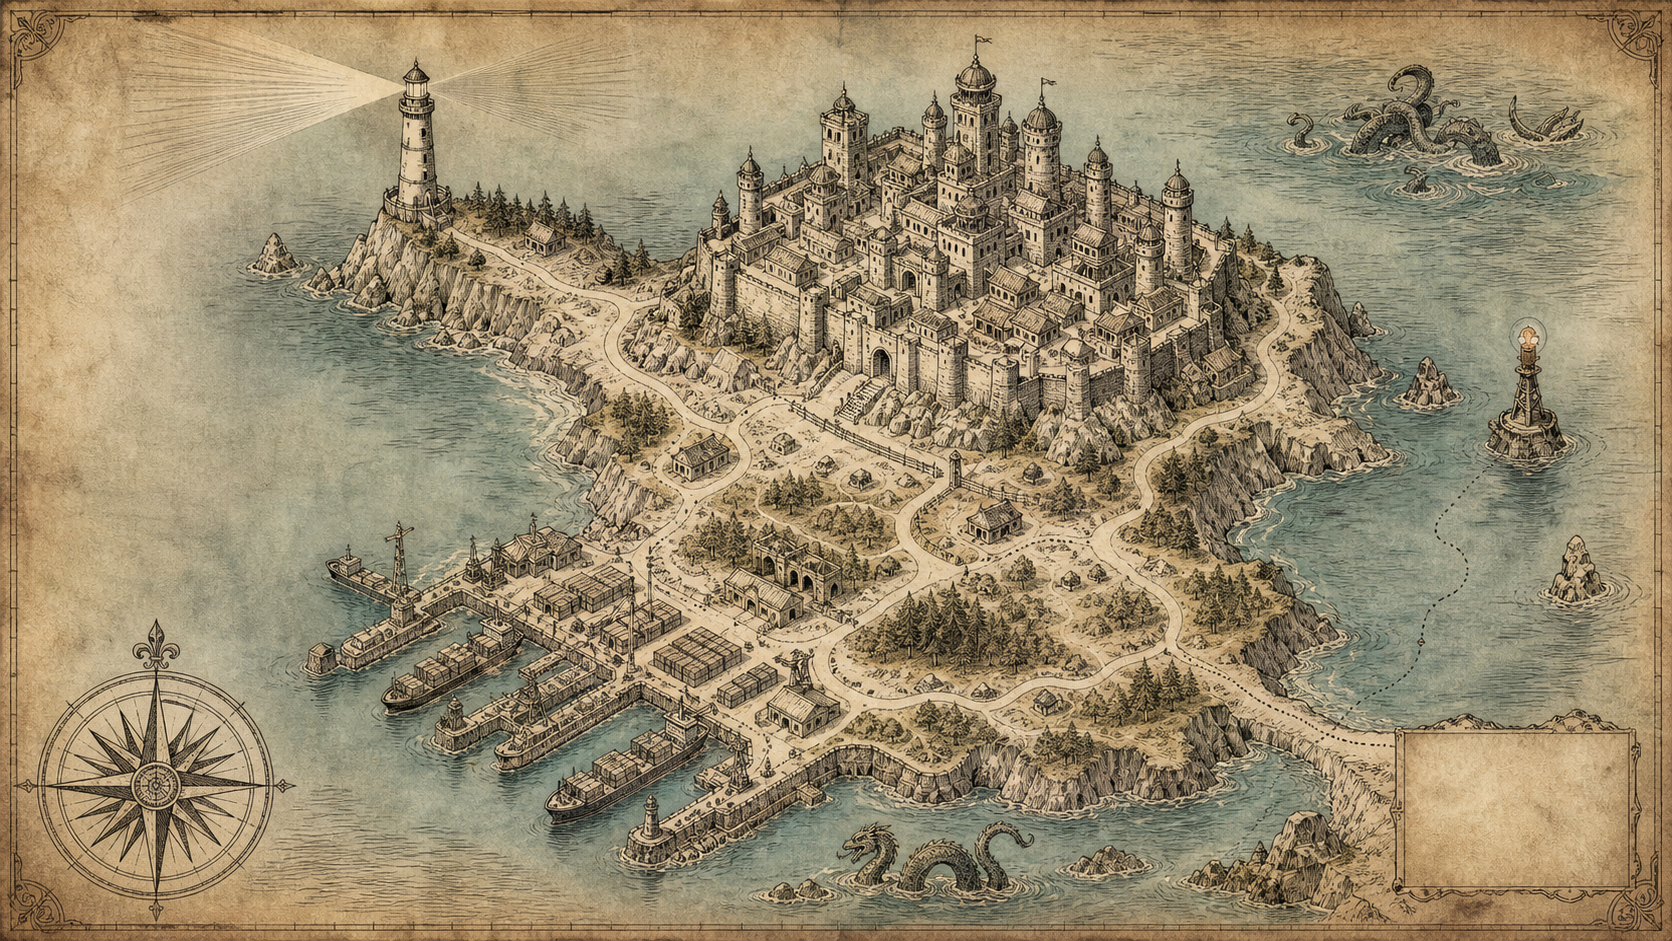
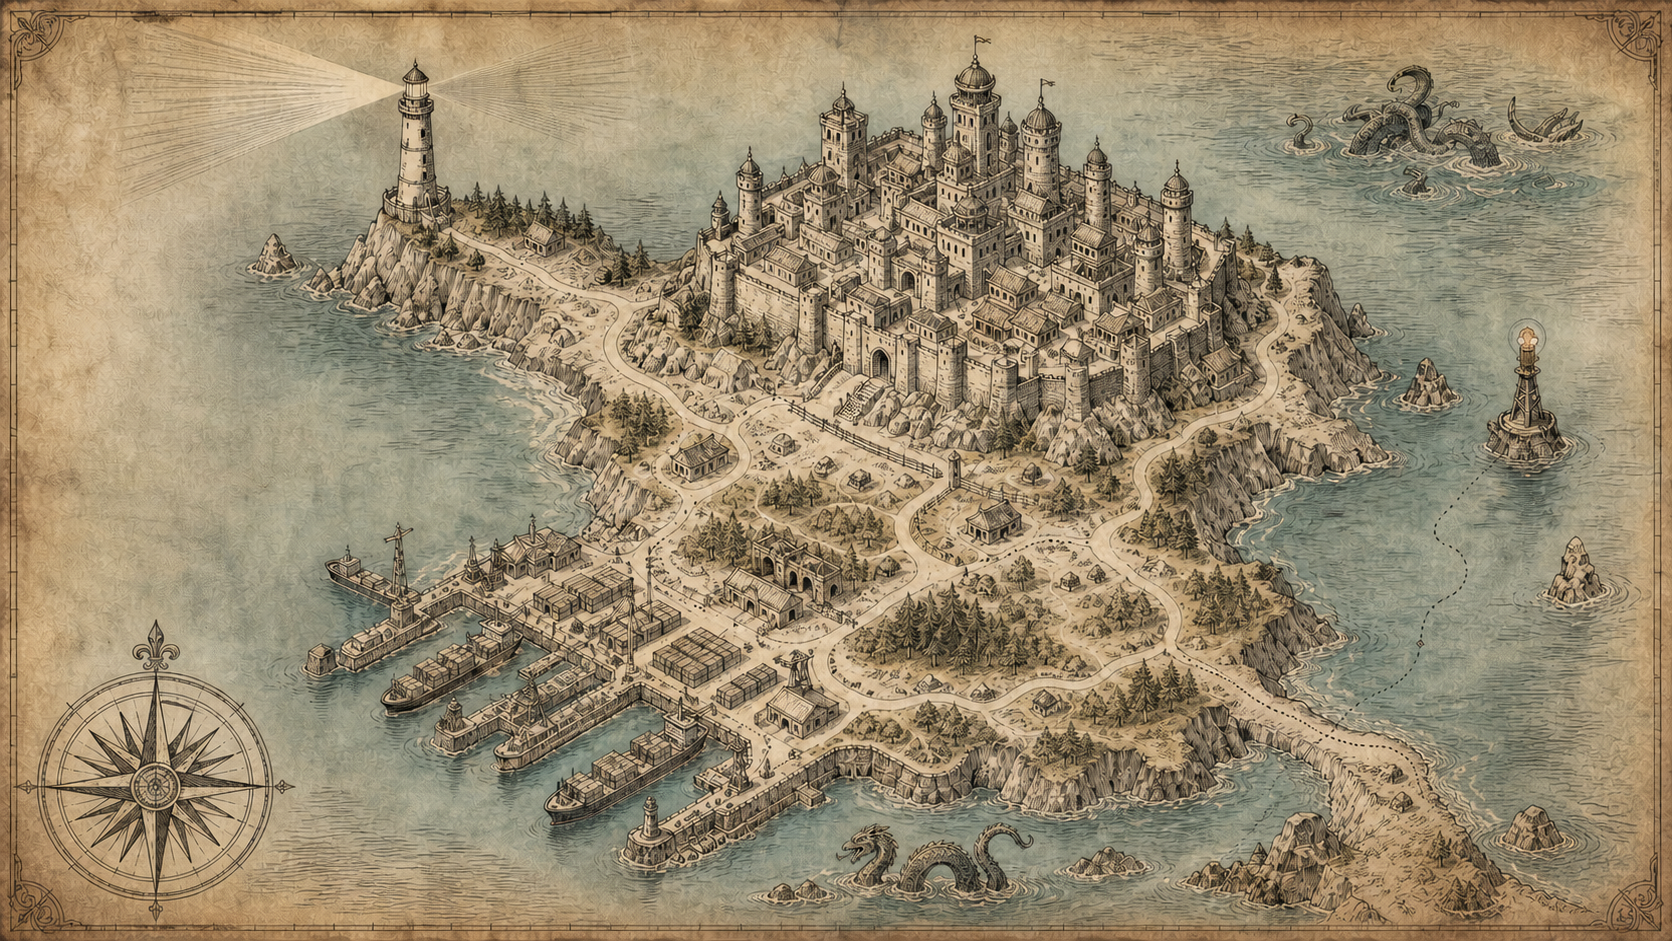
feat: remove Atlas map cartouche

Changed region(s): [[0.0, 0.0, 0.9952, 1.0], [0.0, 0.0, 0.1866, 0.1541], [0.2177, 0.0, 0.3421, 0.0308]]

diff --git a/themes/kedzie-atlas/layouts/partials/atlas-map.html b/themes/kedzie-atlas/layouts/partials/atlas-map.html
@@ -16,13 +16,9 @@
 
   <div class="atlas-stage">
     <figure class="atlas-map" aria-labelledby="atlas-map-title atlas-map-desc">
-      <img src="{{ "/images/kedzie-atlas-map-v1.png" | relURL }}" width="1672" height="941" alt="등대, 성채, 항구, 나침반, 바다 표지가 있는 Kedzie Dev Atlas의 항해도" />
+      <img src="{{ "/images/kedzie-atlas-map-v1.png?v=cartouche-removed" | relURL }}" width="1672" height="941" alt="등대, 성채, 항구, 나침반, 바다 표지가 있는 Kedzie Dev Atlas의 항해도" />
       <figcaption class="sr-only" id="atlas-map-title">Atlas Landmark Map</figcaption>
-      <p class="sr-only" id="atlas-map-desc">GitOps 등대, Kubernetes 성채, GitLab Runner와 Jenkins 작업장, Docker 항구, Grafana 관측 해역과 오른쪽 Argo CD 해역을 포함한 전체 운영 지도입니다. 오른쪽 아래 범례는 인장이 운영 영역, 점선 항로가 배포와 운영의 흐름을 뜻함을 설명합니다. 아래 landmark 목록으로도 모든 영역을 탐색할 수 있습니다.</p>
-      <aside class="atlas-map-legend" aria-label="지도 범례">
-        <p><span class="atlas-map-legend-seal" aria-hidden="true">◎</span><span>운영 영역</span></p>
-        <p><span class="atlas-map-legend-route" aria-hidden="true">···</span><span>배포·운영 항로</span></p>
-      </aside>
+      <p class="sr-only" id="atlas-map-desc">GitOps 등대, Kubernetes 성채, GitLab Runner와 Jenkins 작업장, Docker 항구, Grafana 관측 해역과 오른쪽 Argo CD 해역을 포함한 전체 운영 지도입니다. 아래 landmark 목록으로도 모든 영역을 탐색할 수 있습니다.</p>
       {{ range $landmark := $landmarks }}
         <button
           class="map-hotspot map-hotspot--{{ .id }}{{ with .icon }} has-logo{{ end }}"

diff --git a/themes/kedzie-atlas/assets/css/atlas.css b/themes/kedzie-atlas/assets/css/atlas.css
@@ -261,36 +261,6 @@ button { color: inherit; }
   object-fit: cover;
   object-position: center;
 }
-.atlas-map-legend {
-  position: absolute;
-  z-index: 1;
-  right: 4%;
-  bottom: 8%;
-  width: 13.1%;
-  margin: 0;
-  padding: 1.2%;
-  color: color-mix(in srgb, var(--ink) 78%, var(--blue));
-  font: 700 0.7rem/1.25 var(--font-display);
-  letter-spacing: 0;
-  pointer-events: none;
-}
-.atlas-map-legend p {
-  display: grid;
-  grid-template-columns: 1.15rem minmax(0, 1fr);
-  align-items: center;
-  gap: 0.16rem;
-  margin: 0;
-  white-space: normal;
-}
-.atlas-map-legend p + p { margin-top: 0.42rem; }
-.atlas-map-legend-seal {
-  color: var(--blue);
-  font: 900 1.05rem/1 var(--font-display);
-}
-.atlas-map-legend-route {
-  color: var(--blue);
-  font: 900 0.92rem/1 var(--font-body);
-}
 .map-hotspot {
   position: absolute;
   z-index: 1;
@@ -1054,7 +1024,6 @@ button { color: inherit; }
   .atlas-intro-action > p { max-width: none; }
   .atlas-stage { aspect-ratio: 1672 / 941; }
   .atlas-map img { object-fit: contain; }
-  .atlas-map-legend { display: none; }
   .map-hotspot { width: 2rem; height: 2rem; }
   .map-hotspot.has-logo { width: 3.15rem; height: 3.15rem; }
   .map-hotspot:not(.has-logo) { display: none; }
